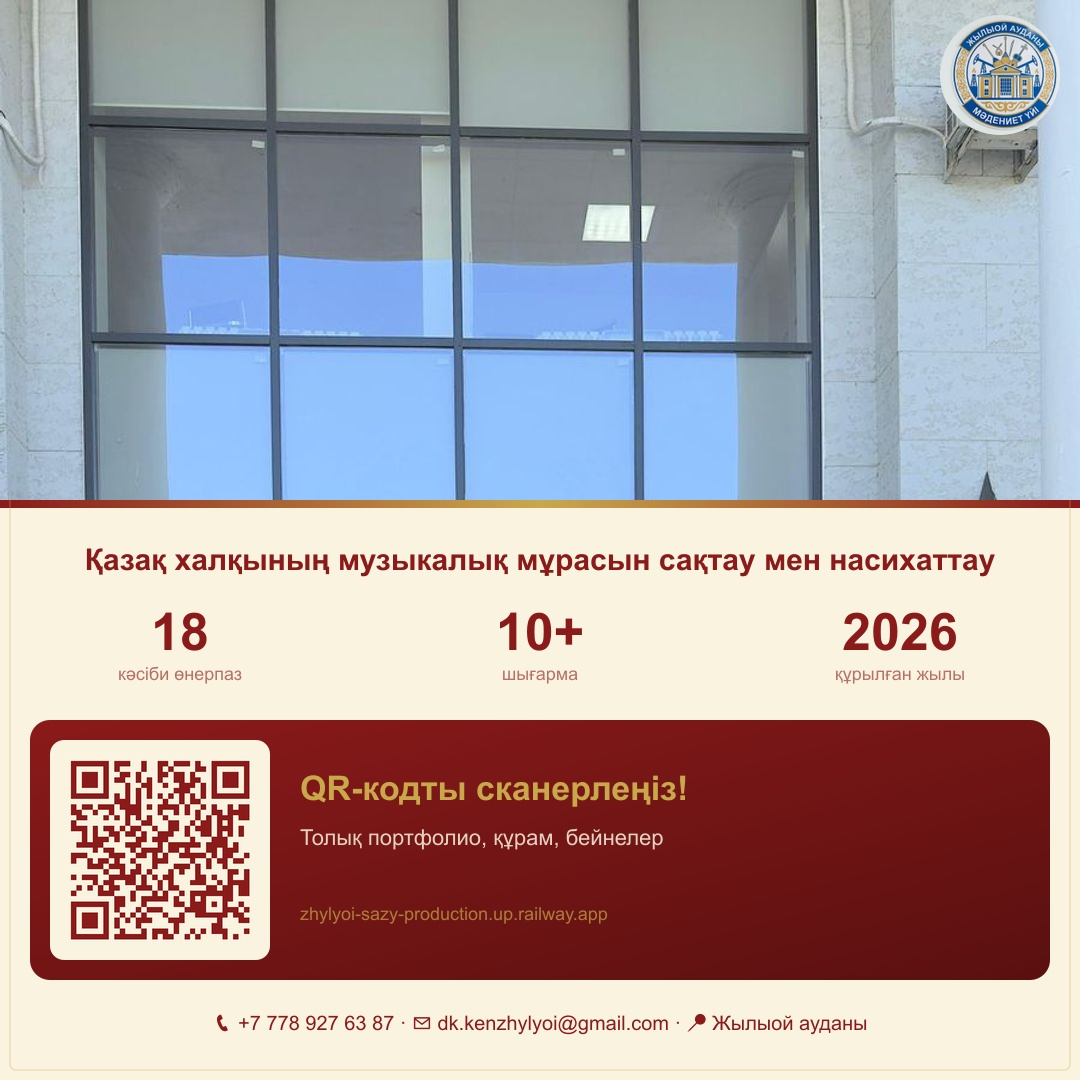
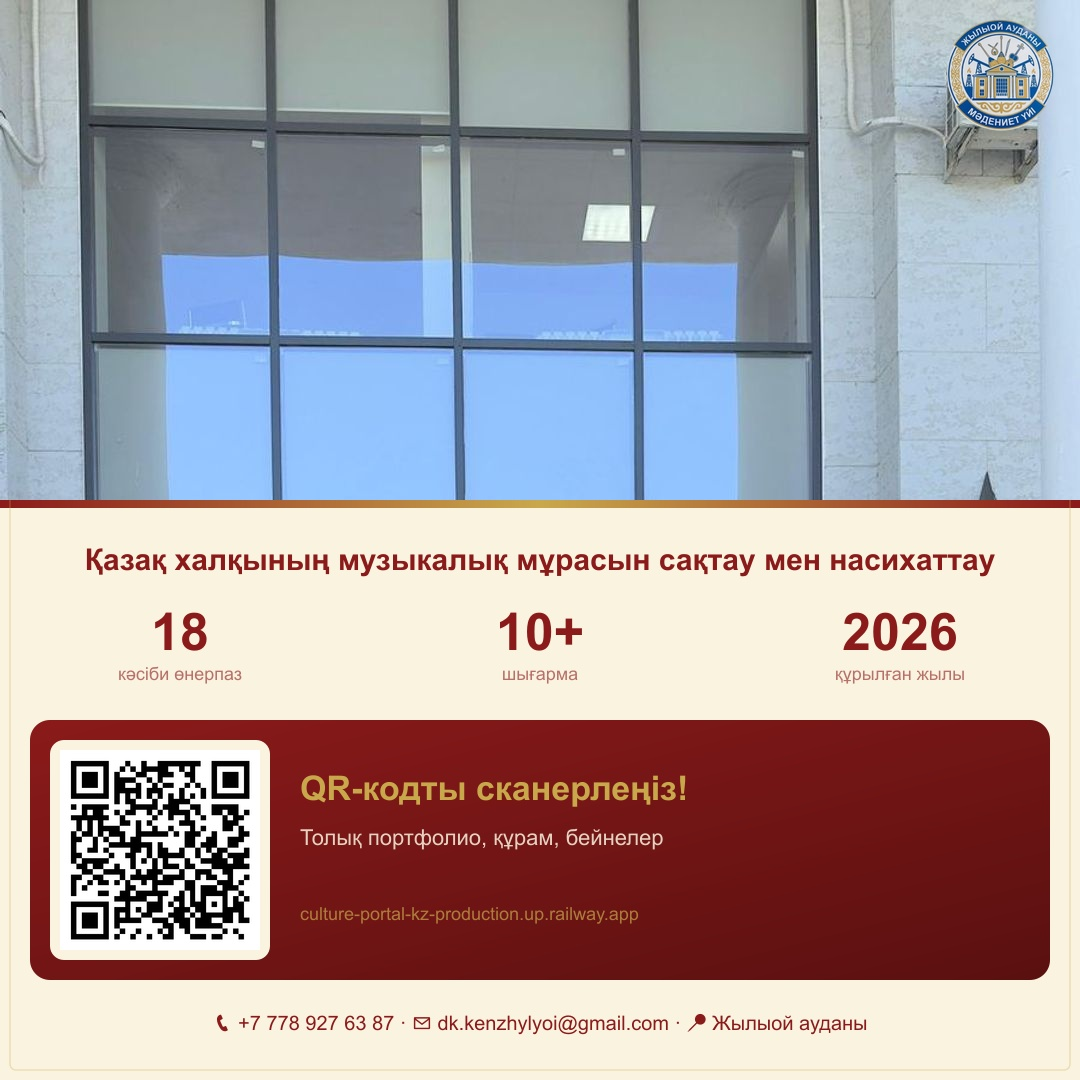
Move the printed address off the ensemble's name
The Railway project, service and host were all named zhylyoi-sazy — the name of
one folk ensemble. The site is becoming a portal for the institutions of the
oblast, so the host is now culture-portal-kz-production.up.railway.app and the
print assets follow it.

The running site needed no change: it derives absolute URLs from the request
headers, so the host it serves under is whatever Railway routes to it. Only the
assets that carry the address as ink had to be rebuilt.

The address now lives in one module rather than four literals, because it will
change once more when the institution's own domain is registered. The QR code
was regenerated and verified by decoding it back out of each finished banner,
not by eye — a code that does not open the site is worse than no code.

banner-a5.html stays a hand-edited exception: it is a standalone printable page
with no build step. That is written down next to the constant so the next change
does not miss it.

create-banners.mjs had been broken since June, before any of this: it opened
logo.jpeg, which was renamed to logo.png some time after the banners were last
produced. Fixed, or nothing would have rebuilt.

Anything already printed with the old address stops working now. Railway does
not redirect a released host. The banners had not been distributed.

Changed region(s): [[0.0306, 0.6722, 0.2444, 0.8861], [0.8556, 0.0, 0.9778, 0.1222], [0.275, 0.825, 0.5806, 0.8556]]

diff --git a/public/banner-a5.html b/public/banner-a5.html
@@ -322,7 +322,7 @@
   <div class="qr-text">
     <div class="scan">QR-кодты сканерлеңіз!</div>
     <div class="desc">Ансамбльдің толық портфолиосымен,<br>құрамымен және бейнежазбаларымен<br>танысыңыз</div>
-    <div class="url">zhylyoi-sazy-production.up.railway.app</div>
+    <div class="url">culture-portal-kz-production.up.railway.app</div>
   </div>
 </div>
 
